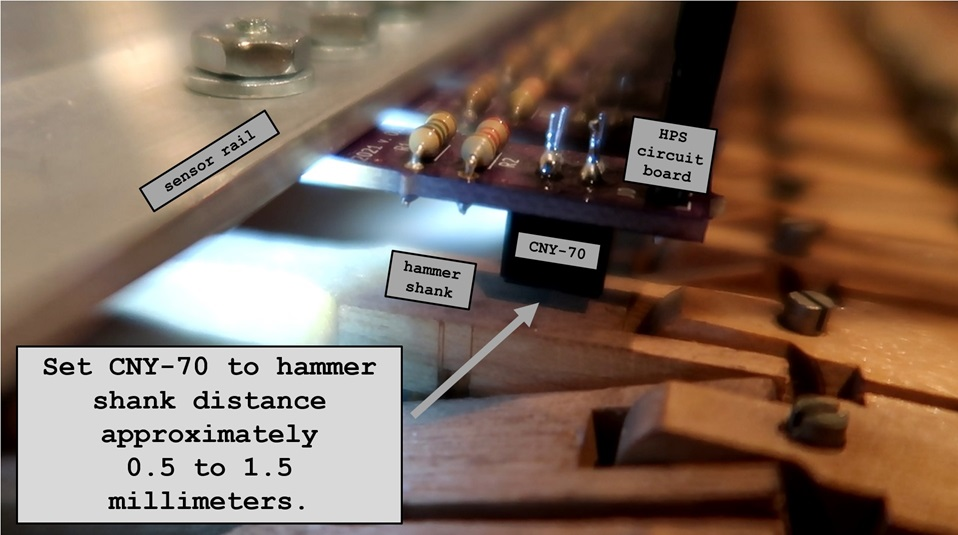
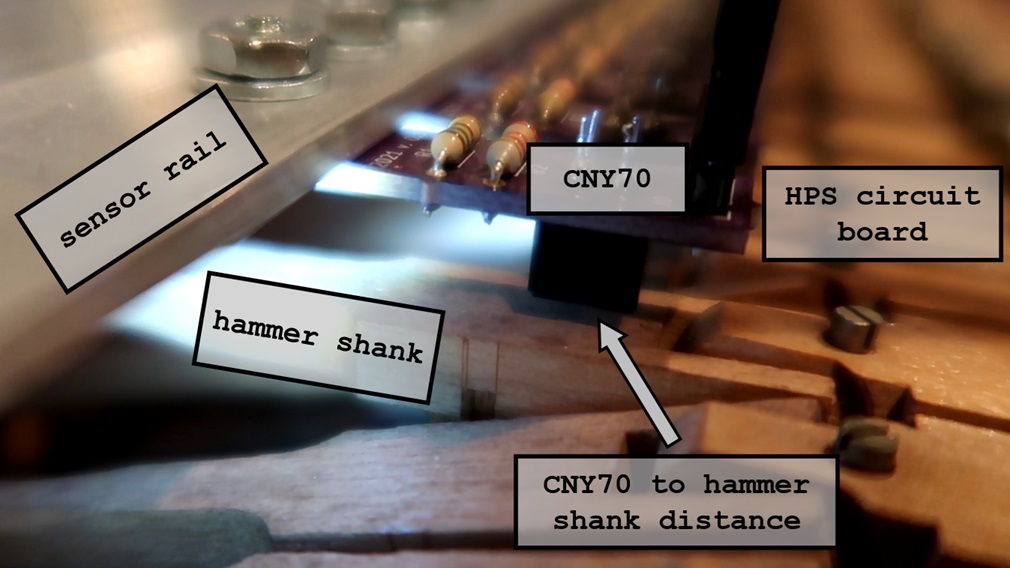
note to note accuracy info

diff --git a/documentation/assembly_manual.md b/documentation/assembly_manual.md
@@ -60,27 +60,21 @@ Drill 88 holes in the sensor rail. Each hole is located vertically above a hamme
 
 If holes are precise, they can match the machine screw diameter. Otherwise, make holes larger to give room for HPS horizontal adjustment.
 
-Horizontally, the hole is such that the CNY-70 on the HPS is close to the place where the shank rotates on the pin adjacent to the drop screw. The shank may get wider at this location.
+Horizontally, the hole is such that the CNY70 on the HPS is close to the place where the shank rotates on the pin adjacent to the drop screw. The shank may get wider at this location.
 
 Install all 88 HPS sensors. The nut is on top. If put nut on bottom, it could hit the piano hammer shank.
 
 Another option is aluminum extrusion. See https://github.com/stem-piano/stem-piano-g-main/issues/1
 
-Adjust the sensor rail up and down until the hammer shank is between 0.5 millimeters 1.5 millimeter from the CNY-70 sensor when hammer hits the stop bar. If the distance is smaller than 0.5 millimeters, the CNY-70 response loses sensitivity. If the distance is larger than 1.5 millimeters, the output voltage can be too low. Better for a distance too large than too small.
+Adjust the sensor rail up and down until the hammer shanks are approximately one millimeter from the CNY70 sensors when hammer hits the stop bar. If the distance is too much smaller than one millimeter, the CNY70 response loses sensitivity. If the distance is too much larger than one millimeter, the output voltage can be too low. Better for a distance too large than too small. See *Piano Regulation* subsection below in this file.
 
-The following picture shows the measurement location. In this picture there are no white stickers. For best results, use a white sticker or white paint on the hammer shank underneath the CNY-70 sensor.
+The following picture shows the measurement location. This picture shows no white stickers. For best results, use a white sticker or white paint on the hammer shank underneath each CNY70 sensor.
 
 ![](./pictures/hammer2sensor.jpg)
 
 Good note-to-note consistency depends on the consistency of shank-to-sensor distances for each sensor. It is a good idea to spend extra time making these distances as consistent as possible. One approach is using thin paper shims to adjust distances when connecting the sensors to the sensor rail.
 
-If the hammer shank wood is not strongly reflective, place white stickers on each shank under the CNY-70 location. Another option is white paint. Use the same kind of surface as use in the CNY-70 voltage level tests: [./hps_testing.md](./hps_testing.md).
-
-## Piano Action Regulation
-
-For best results, get the piano action adjusted while in the configuration described above
-
-Consistent shank height at sensor location.
+If the hammer shank wood is not strongly reflective, place white stickers on each shank under the CNY70 location. Another option is white paint. Use the same kind of surface as use in the CNY70 voltage level tests: [./hps_testing.md](./hps_testing.md).
 
 ## Connecting Hammer Sensors
 
@@ -140,3 +134,33 @@ Three of the connection wires are optional (sustain connected, sostenuto connect
 Pedal signals are not hardwired on the PCB. Therefore, these jumpers enable connecting pedals in many different configurations.
 
 If noisy pedals or notes, connect unused pins to ground using a short segment of ribbon cable. For example, in this figure pins labeled 88 and 89 in the figure, on J45 (the 'in' row) connect to the adjacent ground pins on J41 (the 'gnd' row).
+
+## Piano Regulation
+
+In addition to the piano action, the mechanical structure and electronics all contribute together to result in the most consistent, accurate, and precise piano possible.
+
+See this *Stem Piano* video for details on sources of note-to-note inconsistency and how to improve each: https://www.youtube.com/watch?v=yqkRKSGX6kw
+
+**Things to consider:**
+
+Each is rated low effect (L), medium effect (M), high effect (H).
+
+1. (H) Piano Action. Use the final mechanical setup during piano action regulation.
+
+2. (L) Sensor Rail Horizontal Position.
+
+3. (M) Sensor Rail Vertical Position. See instructions above.
+
+4. (H) Sensor Nonlinearity. The piano includes an automatic calibration feature. See the *Users Manual* in this repository.
+
+5. (H) Sensor Tolerance. Some CNY70 may result in an output voltage that is very low or very high. It is best to select a different CNY70 in these cases.
+
+6. (M) Crosstalk. The sensor spacing is large enough to keep crosstalk small.
+
+7. (L) Shank Angle.
+
+8. (L) Analog Front End. For the *Stem Piano G* design, the analog processing does not contribute significant note-to-note errors.
+
+9. (H) Reflective Material. The reflective surface under each CNY70 should be identical for all keys and dampers.
+
+10. (H) Ambient Light. If the sensors are exposed to ambient light it can cause uneven notes when the ambient light changes. One option to fix is rerun the automatic calibration when lighting conditions change. Avoid bright light as this could cause loud notes to sound.

diff --git a/documentation/component_manual.md b/documentation/component_manual.md
@@ -104,15 +104,16 @@ Four options as listed below. It is ok to use multiple sensor versions in the sa
 
 (2) HPS 0.7
 * Link: https://github.com/gzweigle/DIY-Grand-Digital-Piano/tree/main/hardware/releases/hps07
+* Not recommended for normal use cases.
 * Surface mount
 * Same as HPS 0.8 except with an added trimmer resistor
 * Advantages:
-    * Enables setting CNY-70 output voltage closer to ADC maximum voltage which improves the dynamic range. Tests and analysis show this gives a tiny amount of incremental accuracy.
+    * Enables setting CNY70 output voltage closer to ADC maximum voltage which improves the dynamic range. Tests and analysis show this gives a tiny amount of incremental accuracy.
     * More flexible for a variety of piano action arrangements.
 * Disadvantages:
     * More expensive.
     * Adjusting the trimming resistor is time consuming and difficult to set accurately.
-    * The absolute maximum allowed current of an HPS is 14 mA. When adjusting the trimmer, must measure the current to make sure that it never exceeds 14 mA. The HPS 0.7 documentation (see link above) includes an example of test results for an HPS 0.7. The test results include current as function of trimmer resistor position for a randomly selected CNY-70. These test results indicate that when the trimmer in its default position (100 ohms), the current is in the 12 mA range. Increasing the resistance (lowering the output voltage) decreases the current.
+    * The absolute maximum allowed current of an HPS is 14 mA. When adjusting the trimmer, must measure the current to make sure that it never exceeds 14 mA. The HPS 0.7 documentation (see link above) includes an example of test results for an HPS 0.7. The test results include current as function of trimmer resistor position for a randomly selected CNY70. These test results indicate that when the trimmer in its default position (100 ohms), the current is in the 12 mA range. Increasing the resistance (lowering the output voltage) decreases the current.
 * With respect to current, if all HPS 0.7 trimmer resistors are set at 130 ohms, then the HPS 0.7 is equivalent to the HPS 0.8 (HPS 0.8: r1 = 180 ohms; HPS 0.7: r1=50 + r_trimmer=130 => 180 ohms). Approximately one full trimmer screw turn (360 degree) counterclockwise, from the default 100 ohm position, gets the resistor close to 130 ohms. Check with ohmmeter.
 
 (3) HPS 0.4

diff --git a/documentation/hps_testing.md b/documentation/hps_testing.md
@@ -44,17 +44,17 @@ In this picture the output voltage reads 1.371 volts. The voltage is not 2.5 vol
 
 ## The Test Instructions
 
-Move the CNY-70 on the HPS PCB close to a white sheet of paper and then move it away from the white sheet of paper.
+Move the CNY70 on the HPS PCB close to a white sheet of paper and then move it away from the white sheet of paper.
 
-When the CNY-70 on the HPS PCB is close to the paper, the multimeter DC voltage display should show a maximum value close to 2.5 volts. Move the PCB until a maximum value is shown on the display. The maximum value should not exceed 2.5 volts.
+When the CNY70 on the HPS PCB is close to the paper, the multimeter DC voltage display should show a maximum value close to 2.5 volts. Move the PCB until a maximum value is shown on the display. The maximum value should not exceed 2.5 volts.
 
-When the CNY-70 is a large distance from the paper, the multimeter DC voltage display should show a value close to 0 volts.
+When the CNY70 is a large distance from the paper, the multimeter DC voltage display should show a value close to 0 volts.
 
 Acceptable ranges:
 * For the larger voltage (small distance), anything between 1.5 volts and 2.5 volts is ok.
 * For the smaller voltage (large distance), anything between 0 volts and 0.3 volts is ok.
 
-Not all CNY-70 sensors are the same. Some will have larger voltages during the test and some will have smaller voltages during the test. This is expected and is ok.
+Not all CNY70 sensors are the same. Some will have larger voltages during the test and some will have smaller voltages during the test. This is expected and is ok.
 
 ## What if the smaller voltage (large distance) is above 0.3 volts?
 

diff --git a/documentation/construction_subsections/subsection2_circuit_boards.md b/documentation/construction_subsections/subsection2_circuit_boards.md
@@ -36,11 +36,11 @@ Before building the boards, please read the HPS design document https://github.c
 
 Four board options:
 
-* Option #0 (recommended) - The surface mount board without trimming resistor. Location: https://github.com/gzweigle/DIY-Grand-Digital-Piano/tree/main/hardware/releases/hps08
+* Option #0 (recommended for surface mount) - The surface mount board without trimming resistor. Location: https://github.com/gzweigle/DIY-Grand-Digital-Piano/tree/main/hardware/releases/hps08
 
-* Option #1 - The board with a trimming resistor. This board is more expensive but gives greater control over note accuracy. File location: https://github.com/gzweigle/DIY-Grand-Digital-Piano/tree/main/hardware/releases/hps07/hps07_gerber
+* Option #1 - The board with a trimming resistor. This board is more expensive but may give better control over note accuracy. It is not recommended because it is expensive and because of potential to incorrectly adjust such that the current load exceeds the voltage regulator capability. File location: https://github.com/gzweigle/DIY-Grand-Digital-Piano/tree/main/hardware/releases/hps07/hps07_gerber
 
-* Option #2 - The board without a trimming resistor. File location: https://github.com/gzweigle/DIY-Grand-Digital-Piano/tree/main/hardware/releases/hps04/hps04_gerber
+* Option #2 (recommended if do not want surface mount components) - The board without a trimming resistor. File location: https://github.com/gzweigle/DIY-Grand-Digital-Piano/tree/main/hardware/releases/hps04/hps04_gerber
 
 * Option #3 - Any sensor board that meets the interface specification will work.
 

diff --git a/documentation/construction_subsections/subsection3a_circuit_board_assembly.md b/documentation/construction_subsections/subsection3a_circuit_board_assembly.md
@@ -64,9 +64,9 @@ HPS 0.4 - Parts File without an adjustable resistor and using through-hole compo
 
 HPS 0.8 is recommended for normal use cases.
 
-Make sure the CNY-70 and pin headers are oriented properly with respect to top and bottom of the boards. See *stem piano* video https://youtu.be/C9174TC4kLs?t=162.
+Make sure the CNY70 and pin headers are oriented properly with respect to top and bottom of the boards. See *stem piano* video https://youtu.be/C9174TC4kLs?t=162.
 
-Here is an image of the CNY-70 and pin headers for the HPS 0.7 board and HPS 08 board. Resistors are not shown in images.
+Here is an image of the CNY70 and pin headers for the HPS 0.7 board and HPS 08 board. Resistors are not shown in images.
 
 ![hps07_3d](../pictures/hps07_3d.jpg)
 ![hps08_3d](../pictures/hps08_3d.jpg)
@@ -79,7 +79,7 @@ Bottom side of HPS 0.8 with components installed:
 
 ![](../pictures/hps08_bottom.jpg)
 
-Notice the orientation of the CNY-70. The "CNY-70" marking area on the CNY-70 is on the same side as the "cny-70" label on the HPS circuit board.
+Notice the orientation of the CNY70. The "CNY70" marking area on the CNY70 is on the same side as the "cny70" label on the HPS circuit board.
 
 The resistor values in the bill of materials are selected assuming a white reflective surface.
 

diff --git a/documentation/construction_subsections/subsection4_initial_test.md b/documentation/construction_subsections/subsection4_initial_test.md
@@ -56,7 +56,7 @@ Example startup message:
 
 ![](../pictures/startup_example.jpg)
 
-Use a rectangle of white cardboard and try to "play a note" by quickly moving the cardboard toward the CNY-70 sensor. See *stem piano* video https://youtu.be/NmziaIYKS1g?t=115. A message should appear in the Arduino serial monitor that a note was sent to MIDI.
+Use a rectangle of white cardboard and try to "play a note" by quickly moving the cardboard toward the CNY70 sensor. See *stem piano* video https://youtu.be/NmziaIYKS1g?t=115. A message should appear in the Arduino serial monitor that a note was sent to MIDI.
 
 If the serial monitor is not displaying anything, the problem could be with any of:
 * a PCB board
